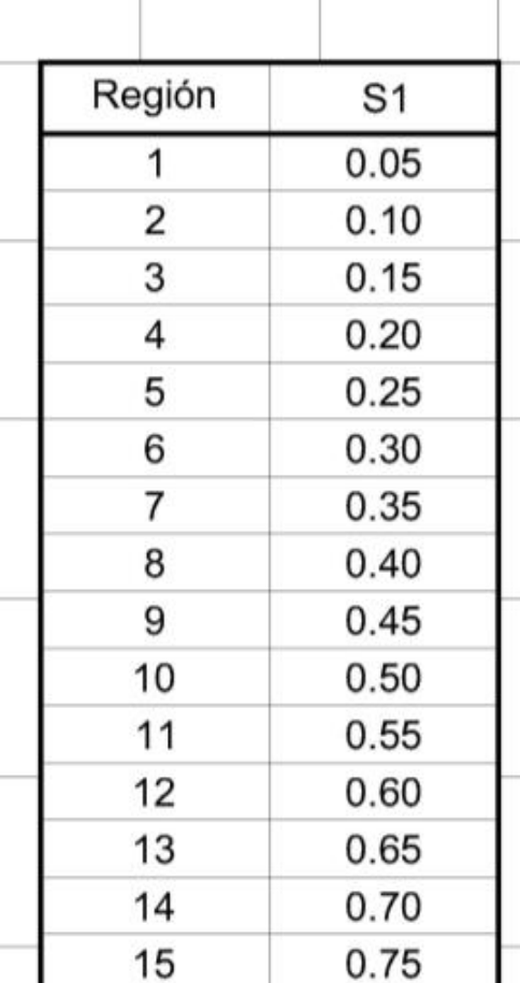
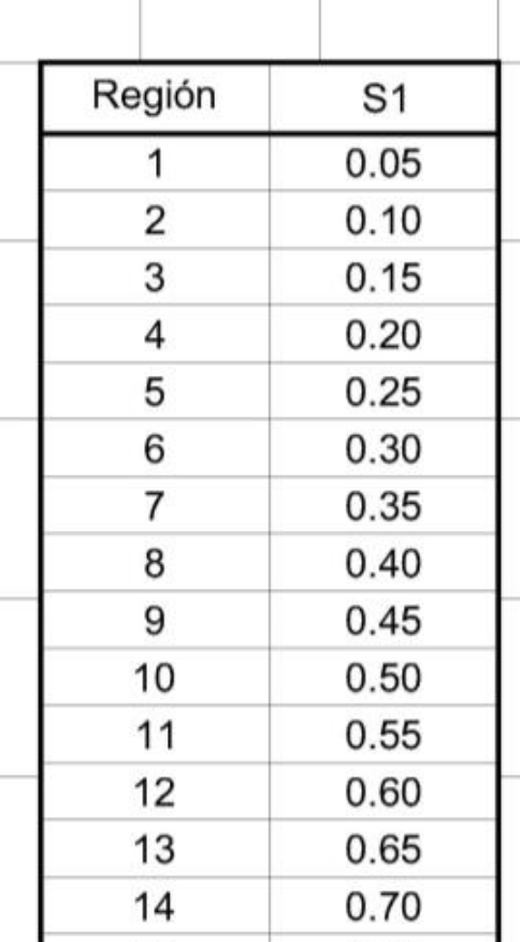
Fold the figure evidence into the one traceability drawer and fix the highlight
Three fixes to the evidence surface.

The legend highlight landed between values. It divided the crop into equal
bands, but the header row is taller than the data rows, so every highlight drifted
by a fraction of a row and the drift grew down the table - PGA region 5 lit the
0.30 row, and Ss region 6 straddled 0.60 and 0.70. Row positions are now measured
from the rendered crop by detecting the text rows, and checked: 12, 14 and 15
rows found against 12, 14 and 15 expected. The S1 crop also ran one row past the
table and has been tightened.

There is now one traceability drawer. The separate evidence sheet is gone; its
content is a section rendered inside the existing drawer, which takes an optional
result so it can open on a selection that has not been calculated yet. Picking a
location exposes the same "Ver trazabilidad" button the result actions use, and
opening it before calculating shows the figure cuts with the lineage section
simply absent until there is something to trace.

The drawer was also too narrow for two side-by-side cuts. It now takes 68vw with
a 44rem floor, easing back to 62vw on extra-large screens, and the cuts stack
below the large breakpoint instead of being squeezed.

Claude-Session: https://claude.ai/code/session_015cVKiuUSYNfrNALciPAio3

diff --git a/components/calculator/ccp14-figure-evidence.tsx b/components/calculator/ccp14-figure-evidence.tsx
@@ -5,13 +5,6 @@ import { ExternalLinkIcon } from "lucide-react"
 import { Badge } from "@/components/ui/badge"
 import { Button } from "@/components/ui/button"
 import {
-  Sheet,
-  SheetContent,
-  SheetDescription,
-  SheetHeader,
-  SheetTitle,
-} from "@/components/ui/sheet"
-import {
   ccp14CityReading,
   ccp14FigurePosition,
   ccp14LegendRowBand,
@@ -66,7 +59,7 @@ function FigureEvidence({
         </span>
       </div>
 
-      <div className="grid gap-3 sm:grid-cols-[minmax(0,1fr)_minmax(0,1.4fr)]">
+      <div className="grid gap-4 lg:grid-cols-[minmax(0,17rem)_minmax(0,1fr)]">
         <figure className="flex flex-col gap-1">
           <div className="relative overflow-hidden rounded-lg bg-white ring-1 ring-black/10">
             {/* eslint-disable-next-line @next/next/no-img-element */}
@@ -119,72 +112,51 @@ function FigureEvidence({
   )
 }
 
-export function Ccp14EvidenceSheet({
-  locationId,
-  onOpenChange,
-  open,
-}: {
-  locationId: string | null
-  onOpenChange: (open: boolean) => void
-  open: boolean
-}) {
+export function Ccp14FigureEvidence({ locationId }: { locationId: string | null }) {
   const reading = ccp14CityReading(locationId)
+  if (!reading || !locationId) return null
 
   return (
-    <Sheet onOpenChange={onOpenChange} open={open}>
-      <SheetContent
-        className="w-full gap-0 overflow-y-auto sm:max-w-3xl"
-        side="right"
+    <section
+      aria-labelledby="ccp14-figure-evidence"
+      className="flex flex-col gap-5"
+      data-slot="ccp14-figure-evidence"
+    >
+      <div className="flex flex-wrap items-center gap-2">
+        <h2 className="font-heading font-medium" id="ccp14-figure-evidence">
+          Evidencia de la lectura del mapa
+        </h2>
+        <Badge variant="outline">{reading.label}</Badge>
+        <Badge variant="secondary">
+          {VERIFICATION_LABEL[reading.pgaVerification] ?? reading.pgaVerification}
+        </Badge>
+      </div>
+      <p className="text-muted-foreground text-sm">
+        El valor de cada región lo publica la leyenda de su figura. La asignación
+        lugar-a-región es una lectura de mapa hecha por espectr0, no un dato
+        publicado por INVÍAS: verifícala contra la figura y edita el valor si
+        difiere. {reading.note}
+      </p>
+
+      {COEFFICIENTS.map((coefficient) => (
+        <FigureEvidence
+          coefficient={coefficient}
+          key={coefficient}
+          locationId={locationId}
+          region={reading.regions[coefficient]}
+        />
+      ))}
+
+      <Button
+        className="self-start"
+        nativeButton={false}
+        render={<a href={SECTION3_URL} rel="noreferrer" target="_blank" />}
+        size="sm"
+        variant="outline"
       >
-        <SheetHeader>
-          <SheetTitle>Evidencia de la lectura del mapa</SheetTitle>
-          <SheetDescription>
-            Recortes de las figuras oficiales que respaldan PGA, Ss y S1 antes de
-            calcular.
-          </SheetDescription>
-        </SheetHeader>
-
-        {reading && locationId ? (
-          <div className="flex flex-col gap-6 px-4 pb-8">
-            <div className="flex flex-wrap items-center gap-2">
-              <span className="font-medium">{reading.label}</span>
-              <Badge variant="outline">
-                {VERIFICATION_LABEL[reading.pgaVerification] ??
-                  reading.pgaVerification}
-              </Badge>
-            </div>
-            <p className="text-muted-foreground text-sm">
-              El valor de cada región lo publica la leyenda de su figura. La
-              asignación lugar-a-región es una lectura de mapa hecha por espectr0,
-              no un dato publicado por INVÍAS: verifícala contra la figura y edita
-              el valor si difiere. {reading.note}
-            </p>
-
-            {COEFFICIENTS.map((coefficient) => (
-              <FigureEvidence
-                coefficient={coefficient}
-                key={coefficient}
-                locationId={locationId}
-                region={reading.regions[coefficient]}
-              />
-            ))}
-
-            <Button
-              nativeButton={false}
-              render={<a href={SECTION3_URL} rel="noreferrer" target="_blank" />}
-              size="sm"
-              variant="outline"
-            >
-              Abrir la Sección 3 oficial de INVÍAS
-              <ExternalLinkIcon data-icon="inline-end" />
-            </Button>
-          </div>
-        ) : (
-          <p className="text-muted-foreground px-4 pb-8 text-sm">
-            Selecciona un lugar rotulado en los mapas para ver su evidencia.
-          </p>
-        )}
-      </SheetContent>
-    </Sheet>
+        Abrir la Sección 3 oficial de INVÍAS
+        <ExternalLinkIcon data-icon="inline-end" />
+      </Button>
+    </section>
   )
 }

diff --git a/components/traceability/traceability-sheet.tsx b/components/traceability/traceability-sheet.tsx
@@ -10,6 +10,7 @@ import {
 	SheetTitle,
 } from "@/components/ui/sheet";
 import { Skeleton } from "@/components/ui/skeleton";
+import type { ReactNode } from "react";
 import type {
 	NormalizedSpectrumResultData,
 	ScenarioEvidenceKey,
@@ -44,36 +45,52 @@ function TraceabilityDetailsLoading() {
 	);
 }
 
+/**
+ * The single traceability surface. `result` is optional so the drawer can open
+ * on a selection that has not been calculated yet, showing whatever source
+ * evidence already exists for it.
+ */
 export function TraceabilitySheet({
 	result,
 	scenarioEvidenceKey,
+	sourceEvidence,
 	open,
 	onOpenChange,
 }: {
-	result: NormalizedSpectrumResultData;
-	scenarioEvidenceKey: ScenarioEvidenceKey;
+	result?: NormalizedSpectrumResultData | null;
+	scenarioEvidenceKey?: ScenarioEvidenceKey | null;
+	sourceEvidence?: ReactNode;
 	open: boolean;
 	onOpenChange: (open: boolean) => void;
 }) {
 	return (
 		<Sheet onOpenChange={onOpenChange} open={open}>
 			<SheetContent
-				className="h-dvh overflow-hidden border-0 data-[side=right]:w-screen data-[side=right]:max-w-none data-[side=right]:sm:w-[52vw] data-[side=right]:sm:min-w-[36rem] data-[side=right]:sm:max-w-none data-[side=right]:sm:border-l"
+				className="h-dvh overflow-hidden border-0 data-[side=right]:w-screen data-[side=right]:max-w-none data-[side=right]:sm:w-[68vw] data-[side=right]:sm:min-w-[44rem] data-[side=right]:sm:max-w-none data-[side=right]:sm:border-l data-[side=right]:xl:w-[62vw]"
 				side="right"
 			>
 				<SheetHeader className="border-b pr-16">
 					<SheetTitle>Trazabilidad normativa</SheetTitle>
 					<SheetDescription>
-						Fuentes, regiones y linaje del resultado normalizado activo.
+						{result
+							? "Fuentes, regiones y linaje del resultado normalizado activo."
+							: "Fuentes y regiones de la selección actual; el linaje aparece al calcular."}
 					</SheetDescription>
 				</SheetHeader>
-				{open && (
-					<TraceabilityDetails
-						key={Object.values(scenarioEvidenceKey).join(":")}
-						result={result}
-						scenarioEvidenceKey={scenarioEvidenceKey}
-					/>
-				)}
+				{open ? (
+					<div className="min-h-0 flex-1 overflow-y-auto">
+						{sourceEvidence ? (
+							<div className="flex flex-col gap-4 p-4 sm:p-6">{sourceEvidence}</div>
+						) : null}
+						{result && scenarioEvidenceKey ? (
+							<TraceabilityDetails
+								key={Object.values(scenarioEvidenceKey).join(":")}
+								result={result}
+								scenarioEvidenceKey={scenarioEvidenceKey}
+							/>
+						) : null}
+					</div>
+				) : null}
 			</SheetContent>
 		</Sheet>
 	);

diff --git a/components/calculator/municipal-parameter-rail.tsx b/components/calculator/municipal-parameter-rail.tsx
@@ -1,6 +1,5 @@
 "use client"
 
-import { useState } from "react"
 import { LandmarkIcon, ShieldAlertIcon } from "lucide-react"
 
 import { Button } from "@/components/ui/button"
@@ -32,7 +31,6 @@ import {
 } from "@/components/ui/select"
 import { Separator } from "@/components/ui/separator"
 import { Switch } from "@/components/ui/switch"
-import { Ccp14EvidenceSheet } from "@/components/calculator/ccp14-evidence-sheet"
 import {
   ccp14CityReading,
   ccp14MapFigure,
@@ -440,6 +438,7 @@ export function Ccp14ParameterRail({
   mapLocationId,
   onMapLocationChange,
   onRegionChange,
+  onTraceabilityOpen,
   onSoilClassChange,
   onValueChange,
   regions,
@@ -449,13 +448,13 @@ export function Ccp14ParameterRail({
   mapLocationId: string | null
   onMapLocationChange: (value: string) => void
   onRegionChange: (coefficient: Ccp14Coefficient, region: number | null) => void
+  onTraceabilityOpen: () => void
   onSoilClassChange: (value: string) => void
   onValueChange: (coefficient: Ccp14Coefficient, value: number | null) => void
   regions: Record<Ccp14Coefficient, number | null>
   soilClass: string | null
   values: Record<Ccp14Coefficient, number | null>
 }) {
-  const [evidenceOpen, setEvidenceOpen] = useState(false)
   const reading = ccp14CityReading(mapLocationId)
   const disputed =
     reading !== null &&
@@ -505,20 +504,15 @@ export function Ccp14ParameterRail({
             <Button
               className="w-full"
               data-slot="ccp14-evidence-trigger"
-              onClick={() => setEvidenceOpen(true)}
+              onClick={onTraceabilityOpen}
               size="sm"
               type="button"
               variant="outline"
             >
               <LandmarkIcon data-icon="inline-start" />
-              Ver evidencia de la lectura
+              Ver trazabilidad
             </Button>
           ) : null}
-          <Ccp14EvidenceSheet
-            locationId={mapLocationId}
-            onOpenChange={setEvidenceOpen}
-            open={evidenceOpen}
-          />
           {CCP14_COEFFICIENTS.map(({ coefficient, label, inputId }) => (
             <Ccp14CoefficientField
               coefficient={coefficient}

diff --git a/lib/ccp14/map-locations.test.ts b/lib/ccp14/map-locations.test.ts
@@ -2,6 +2,7 @@ import { describe, expect, it } from "vitest"
 
 import {
   ccp14DirectMapValues,
+  ccp14LegendRowBand,
   ccp14LegendValue,
   ccp14MapFigure,
   ccp14MapFigures,
@@ -40,6 +41,35 @@ describe("CCP-14 hazard map locations", () => {
 
     expect(ccp14LegendValue("PGA", 4)).toBe(0.2)
     expect(() => ccp14LegendValue("Ss", 14)).toThrow(RangeError)
+  })
+
+  it("measures a distinct, ordered legend row band for every region", () => {
+    for (const figure of ccp14MapFigures) {
+      const bands = figure.regions.map(([region]) =>
+        ccp14LegendRowBand(figure.coefficient, region),
+      )
+      bands.forEach((band, index) => {
+        expect(band.top).toBeGreaterThan(0)
+        expect(band.top + band.height).toBeLessThanOrEqual(1)
+        if (index > 0) {
+          const previous = bands[index - 1]
+          // Ordered top to bottom and never overlapping, so a highlight cannot
+          // straddle two values the way an evenly divided image does.
+          expect(band.top).toBeGreaterThan(previous.top + previous.height)
+        }
+      })
+      expect(() => ccp14LegendRowBand(figure.coefficient, 0)).toThrow(RangeError)
+      expect(() =>
+        ccp14LegendRowBand(figure.coefficient, figure.regions.length + 1),
+      ).toThrow(RangeError)
+    }
+  })
+
+  it("places the PGA 0,25 g row where the legend prints it", () => {
+    // Region 5 is the fifth of eleven data rows, below the taller header.
+    const band = ccp14LegendRowBand("PGA", 5)
+    expect(band.top).toBeGreaterThan(0.33)
+    expect(band.top + band.height).toBeLessThan(0.45)
   })
 
   it("records that Apéndice C3 disagrees with the printed legends", () => {

diff --git a/lib/ccp14/map-locations.ts b/lib/ccp14/map-locations.ts
@@ -19,8 +19,8 @@ export type Ccp14MapFigure = {
   /** Rendered cut of the figure, and of its legend table, served from /public. */
   image: string
   legendImage: string
-  /** Header plus one band per region, so a row can be highlighted on the cut. */
-  legendRowCount: number
+  /** Measured vertical band of each region's row on the legend cut. */
+  legendRowBands: Record<string, { top: number; height: number }>
   /** Where each labeled place sits on this figure, as a fraction of the image. */
   positions: Record<string, { x: number; y: number; from: string }>
 }
@@ -192,11 +192,20 @@ export function ccp14CityValues(id: string | null) {
   }
 }
 
-/** Vertical band of one legend row on the legend cut, as image fractions. */
+/**
+ * Vertical band of one legend row on the legend cut, as image fractions.
+ * Measured from the rendered crop rather than assumed even: the header row is
+ * taller than the data rows, so dividing the image evenly lands the highlight
+ * between values.
+ */
 export function ccp14LegendRowBand(coefficient: Ccp14Coefficient, region: number) {
-  const figure = ccp14MapFigure(coefficient)
-  const height = 1 / figure.legendRowCount
-  return { top: region * height, height }
+  const band = ccp14MapFigure(coefficient).legendRowBands[String(region)]
+  if (!band) {
+    throw new RangeError(
+      `Region ${region} has no measured row on the ${coefficient} legend`,
+    )
+  }
+  return band
 }
 
 export function ccp14FigurePosition(

diff --git a/components/calculator-page.tsx b/components/calculator-page.tsx
@@ -44,6 +44,7 @@ import {
 	SharedSpectrumNotices,
 	SharedSpectrumTable,
 } from "@/components/spectrum-result";
+import { Ccp14FigureEvidence } from "@/components/calculator/ccp14-figure-evidence";
 import { TraceabilitySheet } from "@/components/traceability/traceability-sheet";
 import { Button } from "@/components/ui/button";
 import {
@@ -1029,6 +1030,7 @@ export function CalculatorPage() {
 						setCcp14Values(values);
 					}
 				}}
+				onTraceabilityOpen={() => setTraceabilityOpen(true)}
 				onRegionChange={(coefficient, region) => {
 					setCcp14Regions((current) => ({
 						...current,
@@ -1169,12 +1171,19 @@ export function CalculatorPage() {
 
 	return (
 		<div className="flex flex-col gap-5">
-			{result ? (
+			{result || (calculationMode === "ccp14" && ccp14MapLocationId) ? (
 				<TraceabilitySheet
 					onOpenChange={setTraceabilityOpen}
 					open={traceabilityOpen}
-					result={result}
-					scenarioEvidenceKey={result.scenarioEvidenceKey}
+					result={result?.status === "ok" ? result : null}
+					scenarioEvidenceKey={
+						result?.status === "ok" ? result.scenarioEvidenceKey : null
+					}
+					sourceEvidence={
+						calculationMode === "ccp14" ? (
+							<Ccp14FigureEvidence locationId={ccp14MapLocationId} />
+						) : null
+					}
 				/>
 			) : null}
 			<p className="text-muted-foreground text-sm">

diff --git a/components/calculator-page.test.tsx b/components/calculator-page.test.tsx
@@ -712,6 +712,9 @@ describe("unified municipal mode selector", () => {
 				"Evidencia de la lectura del mapa",
 			);
 		});
+		// One traceability surface, not a second drawer alongside it.
+		expect(document.querySelectorAll('[role="dialog"]')).toHaveLength(1);
+		expect(document.body.textContent).toContain("Trazabilidad normativa");
 		const sheet = document.body.textContent ?? "";
 		expect(sheet).toContain("PGA = 0,25 g");
 		expect(sheet).toContain("Ss = 0,60 g");
